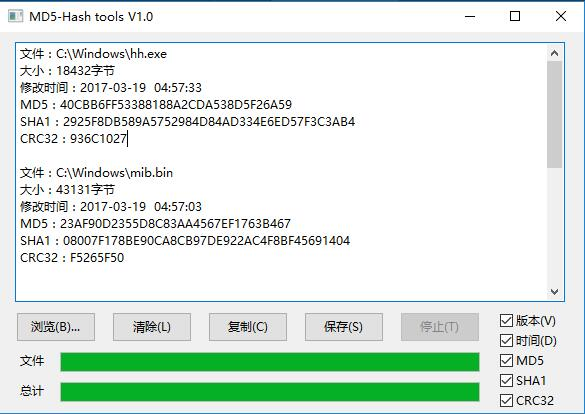
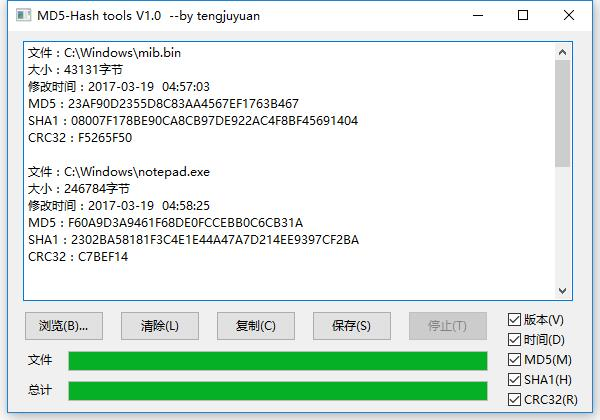
修改 md5_hash

Changed region(s): [[0.0, 0.0, 1.0, 1.0]]

diff --git a/Hash_tool/MD5_Hash.py b/Hash_tool/MD5_Hash.py
@@ -19,7 +19,7 @@ import binascii
 class MD5_Hash_Frame(wx.Frame):
     def __init__(self, parent):
         # wx.Frame.__init__(self, parent, -1, "MD5-Hash tools V1.0", size=(600,400))
-        super(MD5_Hash_Frame, self).__init__(parent, -1, "MD5-Hash tools V1.0", size=(600,420))
+        super(MD5_Hash_Frame, self).__init__(parent, -1, "MD5-Hash tools V1.0  --by tengjuyuan ", size=(600,420))
         panel = wx.Panel(self)
         self.setupMenuBar(panel)
         self.Show(True)
@@ -36,9 +36,9 @@ class MD5_Hash_Frame(wx.Frame):
         # 创建选择盒子
         self.version_box = wx.CheckBox(parent, -1, u"版本(V)", (500,280))
         self.time_box = wx.CheckBox(parent, -1, u"时间(D)", (500, 280+20))
-        self.md5_box = wx.CheckBox(parent, -1, u"MD5", (500, 280+20*2))
-        self.sha1_box = wx.CheckBox(parent, -1, u"SHA1", (500, 280+20*3))
-        self.crc32_box = wx.CheckBox(parent, -1, u"CRC32", (500, 280+20*4))
+        self.md5_box = wx.CheckBox(parent, -1, u"MD5(M)", (500, 280+20*2))
+        self.sha1_box = wx.CheckBox(parent, -1, u"SHA1(H)", (500, 280+20*3))
+        self.crc32_box = wx.CheckBox(parent, -1, u"CRC32(R)", (500, 280+20*4))
         # 创建进度条
         self.static1 = wx.StaticText(parent, -1, '文件',pos=(20,320),size=(50,25))
         self.static2 = wx.StaticText(parent, -1, '总计',pos=(20,350),size=(50,25))
